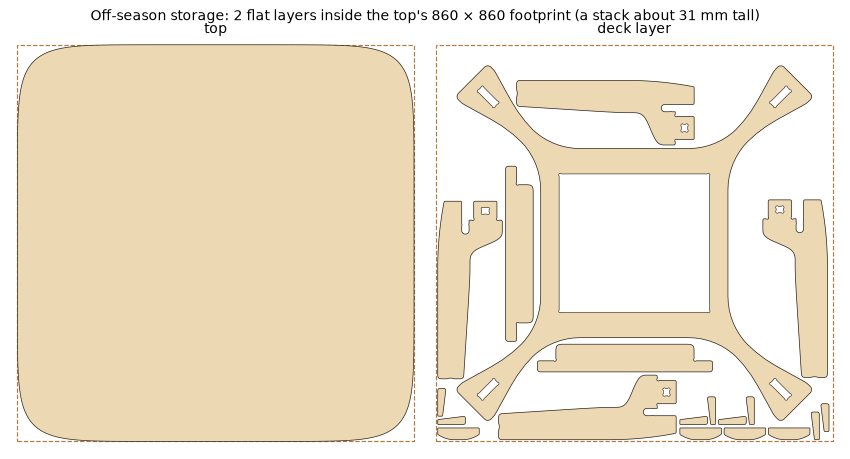
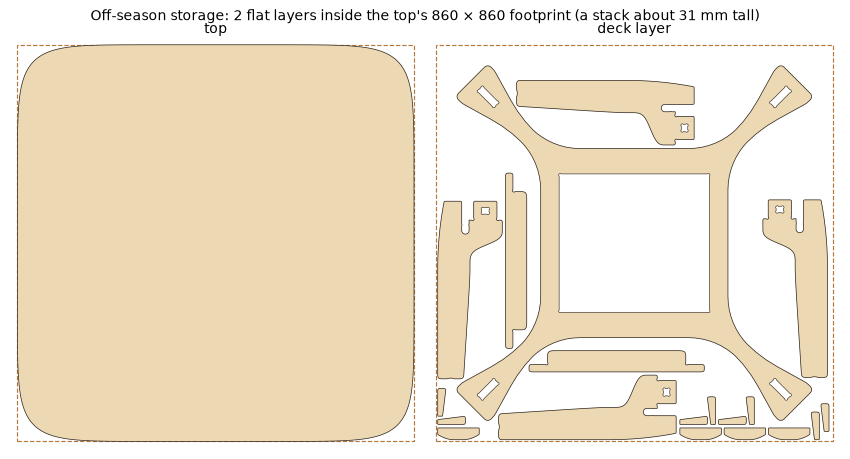
docs: the heater's control panel and screw line; the short cheeks; figures redrawn

Changed region(s): [[0.5812, 0.366, 0.6424, 0.7625], [0.6424, 0.732, 0.8565, 0.8235], [0.6118, 0.793, 0.6424, 0.8235]]

diff --git a/PLAN.md b/PLAN.md
@@ -9,7 +9,7 @@ and anything I haven't confirmed yet is marked **TODO-verify**.
 |---|---|---|
 | Plywood | 18 mm (uMake's "19mm") | **15 mm throughout** |
 | Heater | hangs under the deck from 2 cheeks, 4 cheek wedges | **sits in a well in the deck**, in a cradle that hangs by gravity |
-| Clear height under the heater | 286 mm | **323 mm** |
+| Clear height under the heater | 286 mm | **304 mm** |
 | Deck | H-shaped (four notches) | **X-shaped**: corner pads, a ring round the heater, 45° arms |
 | Legs | 8 plates in four "+" legs, 8 tenons, a wedge in each | **four diagonal legs**: one plate a corner on its diagonal, a crosspiece in its head, one tenon and wedge each |
 | Wedges | 12 + 2 spares | **4 + 2 spares** |
@@ -25,7 +25,7 @@ and anything I haven't confirmed yet is marked **TODO-verify**.
 | Show top | Researched and dropped (owner 2026-11): solid pale wood, stone, a copper skin and a ¼" low-iron glass sheet over the birch (previewed in 3-D: too glossy) were all priced or checked with the FEA (`docs/research.md`; the quote pack is at git tag `show-top-archive`). The pale birch look of v1 is what I want: the top stays uMake birch, finished by hand with a satin hardwax oil (owner: "the simple and honest look of the waxed satin birch still wins at the price point") |
 | Frame | A **yagura**: four diagonal legs (one plate a corner, on the diagonal, owner 2026-11; the "+" legs are tag `plus-legs-archive`) under an X-shaped deck. No aprons, so knees get the room |
 | Material | **15 mm Baltic birch for everything**, wedges included (v1: 18 mm). Joints accept 14.1–15.7 mm (TODO-verify the real tolerance, and which uMake menu entry, "15mm" or "16mm", it is) |
-| Heater | **PaletteLife 120 V 400 W**, 29 × 29 × 5 cm, the same unit as v1, screwed in at the sides (`docs/heater.md`). I drill its screw holes during assembly, so the files have none. Its top sits 14 mm above the deck top, 12 mm under the tenon tops; the manual sets no clearance above the unit |
+| Heater | **PaletteLife 120 V 400 W**, 29 × 29 × 5 cm, the same unit as v1, screwed in at the sides (`docs/heater.md`). I drill its screw holes during assembly, so the files have none. Its control panel (power inlet, switch, knob) is on one end, near the grille: the heater sits low enough that the panel clears the deck's underside by 5 mm, so the knob and the plug stick out under the deck's ring (owner 2026-11; the panel's height read off a photo, TODO-verify). Its screws are 10-15 mm from its top, so the cheeks are short |
 | Height | About 41 cm: 385 mm frame + 15 mm top + the futon |
 | Futon & seats | An 80 × 80 in (203 cm) square futon on an 8 ft round rug (`docs/futon.md`), four 25 × 25 in floor pillows, and a bought, adjustable zaisu (about $70). On a zaisu I sit **legs forward**: cross-legged on a chair, my knees wouldn't fit under the top with any cushion worth having. The 3-D view shows the futon, rug and pillows |
 | Budget | Under CAD $1200 all in |
@@ -73,10 +73,11 @@ and anything I haven't confirmed yet is marked **TODO-verify**.
 - **Heater cradle: 2 cheeks (380 × 70 mm).** The heater screws between their inner faces, 294 mm apart (a
   290 mm heater gets 4 mm of play). The pair drops into the deck's well, and a 40 mm ear at each cheek end
   rests on the deck top: gravity holds it up, and it lifts out for summer. The cheeks cover the heater's
-  whole side and rise 24 mm above the deck, 2 mm under the tenon tops, so even on the thickest deck they never
-  stand proud and carry the top. The heater's top sits 14 mm above the deck, with 10 mm of air above it (owner 2026-11:
-  raised 14 mm, was flush, "10 mm just to be safe": the futon sags a little between the cheeks). The cheeks are
-  60 mm tall: from the heater's underside to their tops.
+  heater's screw line and 12.5 mm of wood below it, and rise 16 mm above the deck (the ears stay a sheet thick),
+  under the futon: 46 mm tall (owner 2026-11: the screws sit 10-15 mm from the heater's top; the cheeks were 60). The
+  heater hangs with its top 5 mm under the deck top, low enough that its control panel, on one end, clears the
+  deck's underside by 5 mm: the knob and the plug stick out under the deck's ring, and the cord runs out under it.
+  21 mm of air above the heater, under the cheek tops.
 - **Top (1, 860 × 860 mm), a squircle**: |x/a|¹⁰ + |y/a|¹⁰ = 1, a curve that fades into the edges instead of
   a radius that starts abruptly. The corner posts stay 28 mm inside its edge (v1: 40). The futon lies
   over the heater as in a traditional open frame (v1 had the deck in between).
@@ -99,10 +100,10 @@ the sheets itself and prices per part, so this only matters for my estimate.
 | Measure | Value |
 |---|---|
 | Clear height at the middle of each side (deck underside) | 344 mm |
-| Clear height under the heater | 323 mm (v1: 286) |
+| Clear height under the heater | 304 mm (v1: 286) |
 | My 76 × 32 cm cross-legged knee zone (on the bare floor): how far it reaches under the top's edge | 40 mm |
-| On a zaisu, legs forward: room above my thighs under the deck / my feet under the heater (seat 100 mm high when sat on, TODO-verify) | 69 mm / 74 mm (a typical 160 mm thigh, TODO-verify) |
-| My knee room on the floor pillows, against v1 (where it's fine, owner 2026-11) | the same or more: frame top 385 / 385 mm, deck underside 344 / 341, heater 323 / 286, reach 40 / 40, between the legs 570 / 568 |
+| On a zaisu, legs forward: room above my thighs under the deck / my feet under the heater (seat 100 mm high when sat on, TODO-verify) | 69 mm / 69 mm (a typical 160 mm thigh, TODO-verify) |
+| My knee room on the floor pillows, against v1 (where it's fine, owner 2026-11) | the same or more: frame top 385 / 385 mm, deck underside 344 / 341, heater 304 / 286, reach 40 / 40, between the legs 570 / 568 |
 | Cross-legged on a zaisu: knee room under the top's edge (385 mm, the futon squeezed over the knees) | none to spare once the seat's height is added, so I sit legs forward |
 | Room between the legs at knee height / legs forward (to 275 mm) | 571 / 656 mm ("+" legs: 568 / 637) |
 | Sway under a sideways push (spring model; FEA at 200 N: 6.1 mm, "+" legs 7.1) | 0.75 mm at 50 N, 1.5 at 100 N, 3.5 at 200 N |

diff --git a/docs/heater.md b/docs/heater.md
@@ -43,9 +43,14 @@ two heater cheeks hanging under the deck.
   the cheek's 60 mm height (v2). The cheeks' only other features are the ears at their top corners, out of the screws' way.
 - **TODO-verify:** the exact width across the screw tabs. If there's a gap, the tabs bend slightly as the
   screws tighten. A thin shim fixes that (uMake sends only the parts, so no offcuts).
-- **TODO-verify (before ordering v2):** where the knob and the cord's socket are, and how far they stick out. The
-  well is only 5 mm longer than the body at each end, and the cheeks take both sides, so anything on an end or a
-  side won't fit (on the bottom it's fine).
+- **The control panel (owner, 2026-11, from the listing's photos):** on one end, recessed into the grille side: an IEC
+  power inlet, a rocker switch and the HI/LOW knob. The grille faces down, so the panel is on the end's lower part.
+  The well has only 5 mm to spare at each end and the cheeks take both sides, so the heater hangs low enough that
+  the panel's top (`[heater] panel_h`, 35 mm up from the grille side, read off the photo: **TODO-verify**) clears the
+  deck's underside by 5 mm. The knob and the plug then stick out under the deck's ring, in open air, and the cord
+  runs out under the deck. Reach the knob by lifting the futon, as on v1.
+- **The screws (owner, 2026-11):** the side holes are 10-15 mm from the heater's top (`[heater] screw_from_top`
+  12.5), so the cheeks only cover that band and 12.5 mm below it: 46 mm tall.
 - **Checked (owner, 2026-11):** the screws supplied with the heater suit the 15 mm cheeks (they must not poke out:
   at most about 13 mm into the wood). Drill 2–2.5 mm pilot holes. I'll drill the holes myself during assembly, so the cut
   files don't have any.

diff --git a/README.md b/README.md
@@ -319,7 +319,9 @@ taking shape on its own branch. It isn't ordered yet. This chapter grows as it d
 The deck now has a hole in the middle, and the two heater cheeks became a cradle. I screw the heater
 between them on the floor, then lower the whole thing into the hole. An ear at each end of the cheeks
 rests on the deck, so gravity holds it up, and in summer it lifts straight out. The heater's top sits
-just above the deck: 323 mm off the floor instead of 286, and four fewer wedges.
+in the deck: 304 mm off the floor instead of 286, and four fewer wedges. (It started higher, 323 mm, until the
+heater's control panel turned out to sit on one end: the heater now hangs just low enough for the knob and plug
+to clear the deck, and since its screws are near the top, the cheeks became short, 46 mm.)
 
 ### Thinner plywood
 
@@ -484,7 +486,7 @@ until the deck sits on it and on the plate's shoulders together. (The "+" legs a
 | Parts | 26 | 18 |
 | Weight | 15.9 kg | 10.6 kg |
 | Wedges | 14 | 6 (4 + 2 spares) |
-| Clear height under the heater | 286 mm | 323 mm |
+| Clear height under the heater | 286 mm | 304 mm |
 | A hard 200 N shove, finite elements | not checked | 75 % of the legs' strength, 6.1 mm of sway |
 | uMake | $353.33 in the cart ($405.83 once uMake finalized it) | $304.77 (a quote, not an order; about $343 with tax; the "+" legs quoted $328.02) |
 
